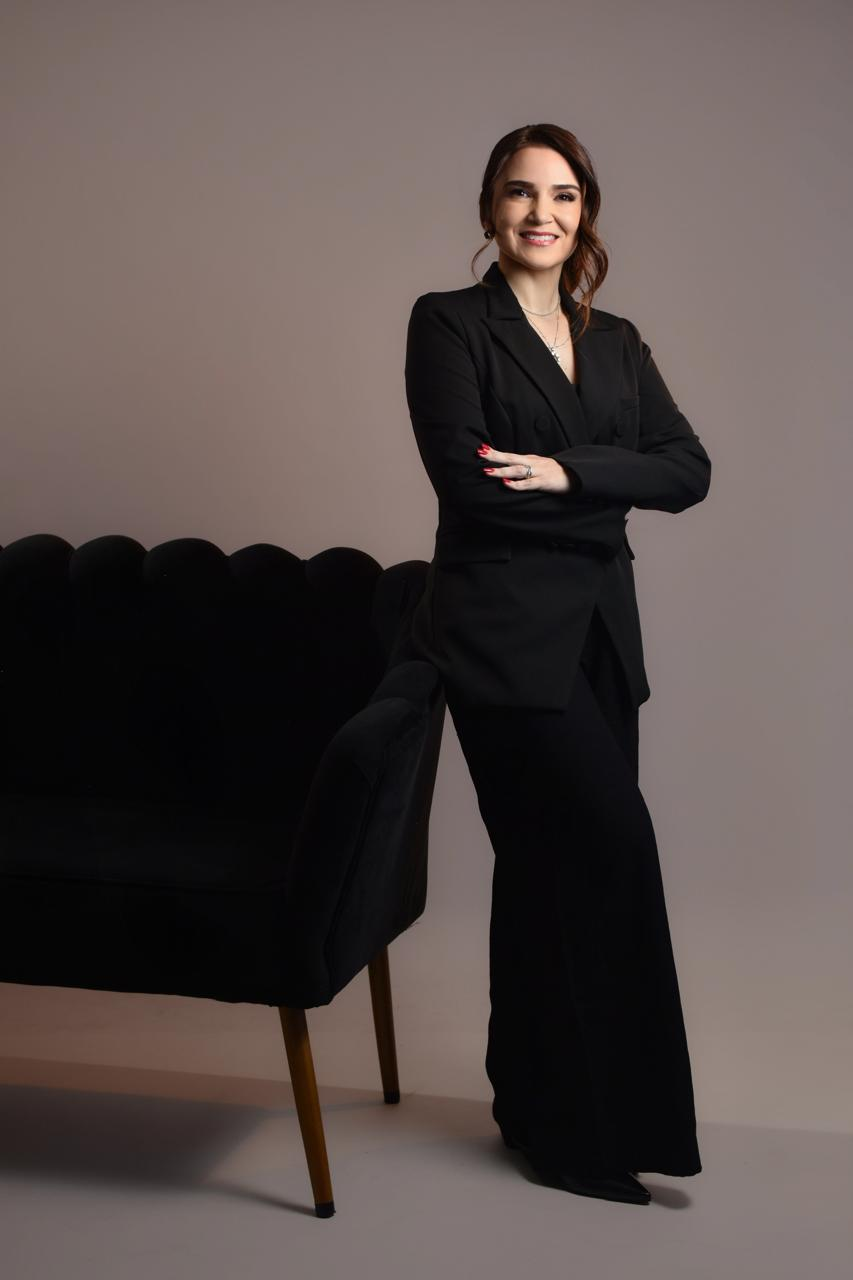
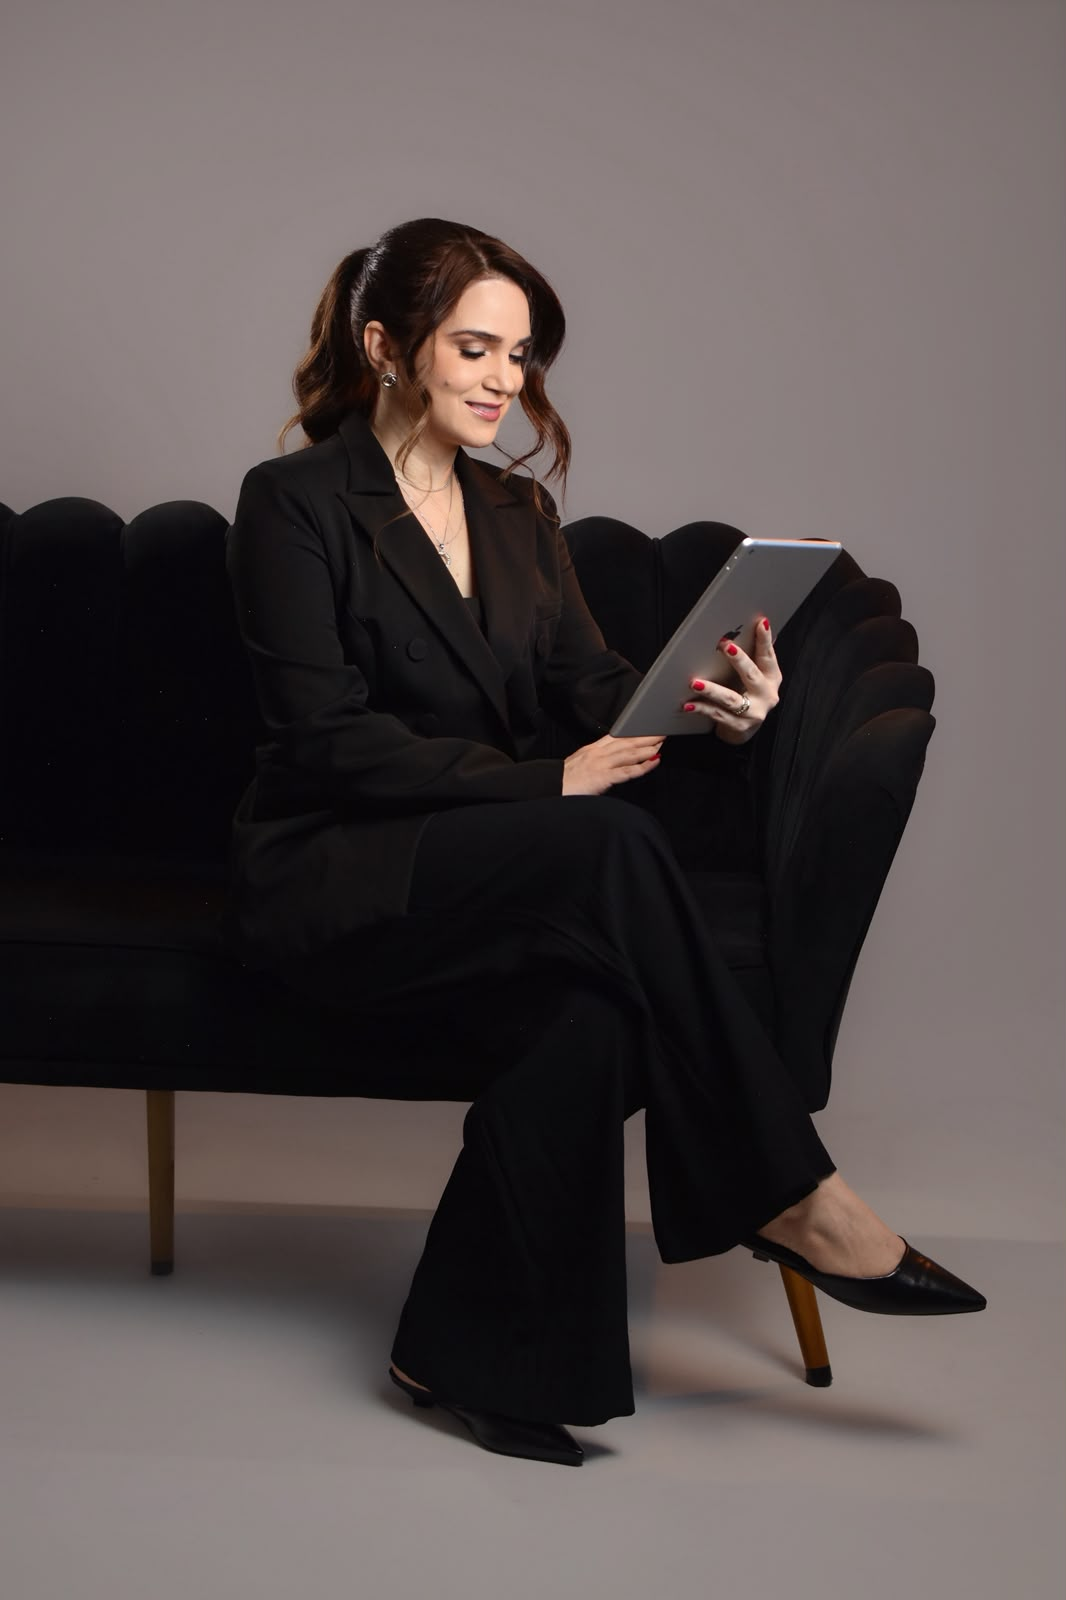
feat: reorganiza fotos entre Home, Sobre e Especialidade
- Home: foto real no círculo "Serviço principal"
- Especialidade: nova foto (antes usada só como reserva)
- Sobre: foto ampliada para preencher melhor o espaço do card

diff --git a/index.html b/index.html
@@ -61,7 +61,8 @@ nav{position:fixed;top:0;left:0;right:0;z-index:100;display:flex;align-items:cen
 .servico-visual::before{content:'';position:absolute;bottom:-60px;right:-60px;width:240px;height:240px;border-radius:50%;background:rgba(196,164,124,.1)}
 .servico-badge-main{position:relative;z-index:1;display:flex;flex-direction:column;align-items:center;gap:20px;text-align:center}
 .servico-circle{width:200px;height:200px;border-radius:50%;border:1px solid rgba(200,164,154,.3);display:flex;align-items:center;justify-content:center;padding:28px}
-.servico-circle-inner{width:100%;height:100%;border-radius:50%;background:var(--cr-lt);display:flex;flex-direction:column;align-items:center;justify-content:center;gap:8px}
+.servico-circle-inner{width:100%;height:100%;border-radius:50%;background:var(--cr-lt);display:flex;flex-direction:column;align-items:center;justify-content:center;gap:8px;overflow:hidden;position:relative}
+.servico-circle-inner img{position:absolute;inset:0;width:100%;height:100%;object-fit:cover;object-position:top center}
 .servico-circle-inner span:first-child{font-family:'Lora',serif;font-style:italic;font-size:13px;color:var(--ro);letter-spacing:.06em}
 .servico-circle-inner strong{font-family:'Lora',serif;font-size:17px;font-weight:400;color:var(--ma-dk);line-height:1.3;text-align:center}
 .servico-comps{display:flex;gap:10px;flex-wrap:wrap;justify-content:center}
@@ -208,8 +209,7 @@ footer{background:var(--ma-dk);padding:64px 80px 0}
     <div class="servico-badge-main">
       <div class="servico-circle">
         <div class="servico-circle-inner">
-          <span>serviço principal</span>
-          <strong>Psicoterapia<br/>Clínica</strong>
+          <img src="elisia-home.jpg" alt="Elísia Almeida, psicóloga"/>
         </div>
       </div>
       <div class="servico-comps">

diff --git a/sobre.html b/sobre.html
@@ -52,9 +52,9 @@ nav{position:fixed;top:0;left:0;right:0;z-index:100;display:flex;align-items:cen
 
 /* BIO */
 .bio{display:grid;grid-template-columns:1fr 1fr;min-height:540px}
-.bio-img{background:var(--ro-lt);display:flex;align-items:center;justify-content:center;padding:72px;position:relative;overflow:hidden}
+.bio-img{background:var(--ro-lt);display:flex;align-items:center;justify-content:center;padding:32px;position:relative;overflow:hidden}
 .bio-img::before{content:'';position:absolute;bottom:-60px;right:-60px;width:240px;height:240px;border-radius:50%;background:rgba(196,164,124,.15)}
-.foto{width:260px;height:320px;border-radius:130px 130px 60px 60px;background:linear-gradient(165deg,var(--cr) 35%,var(--ro-lt));box-shadow:0 20px 50px rgba(139,94,60,.12);display:flex;align-items:flex-end;justify-content:center;padding-bottom:22px;position:relative;z-index:1;overflow:hidden}
+.foto{width:100%;max-width:440px;height:100%;max-height:560px;border-radius:180px 180px 60px 60px;background:linear-gradient(165deg,var(--cr) 35%,var(--ro-lt));box-shadow:0 20px 50px rgba(139,94,60,.12);display:flex;align-items:flex-end;justify-content:center;padding-bottom:22px;position:relative;z-index:1;overflow:hidden}
 .foto img{width:100%;height:100%;object-fit:cover;object-position:top center}
 .foto span{font-size:10px;letter-spacing:.14em;text-transform:uppercase;color:var(--ma);opacity:.4}
 .bio-c{padding:80px;display:flex;flex-direction:column;justify-content:center;gap:24px}